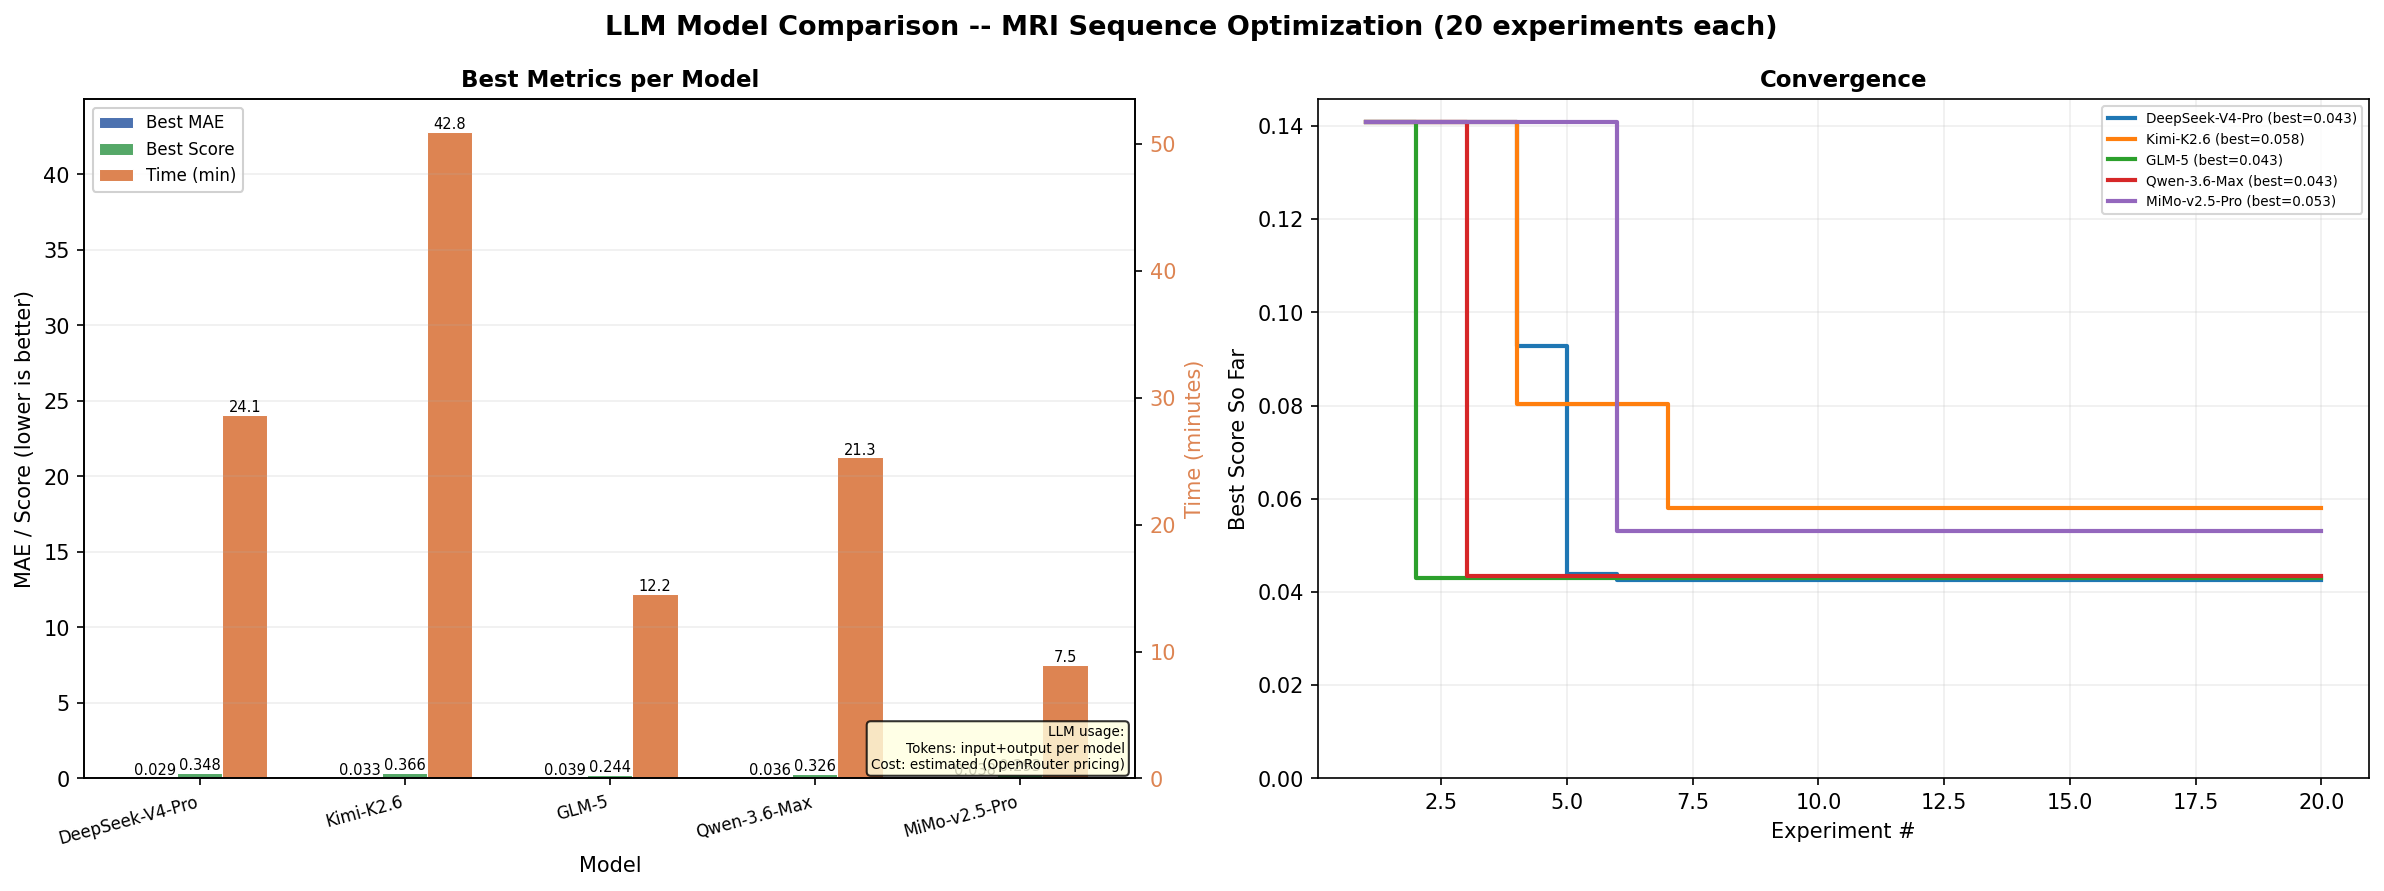
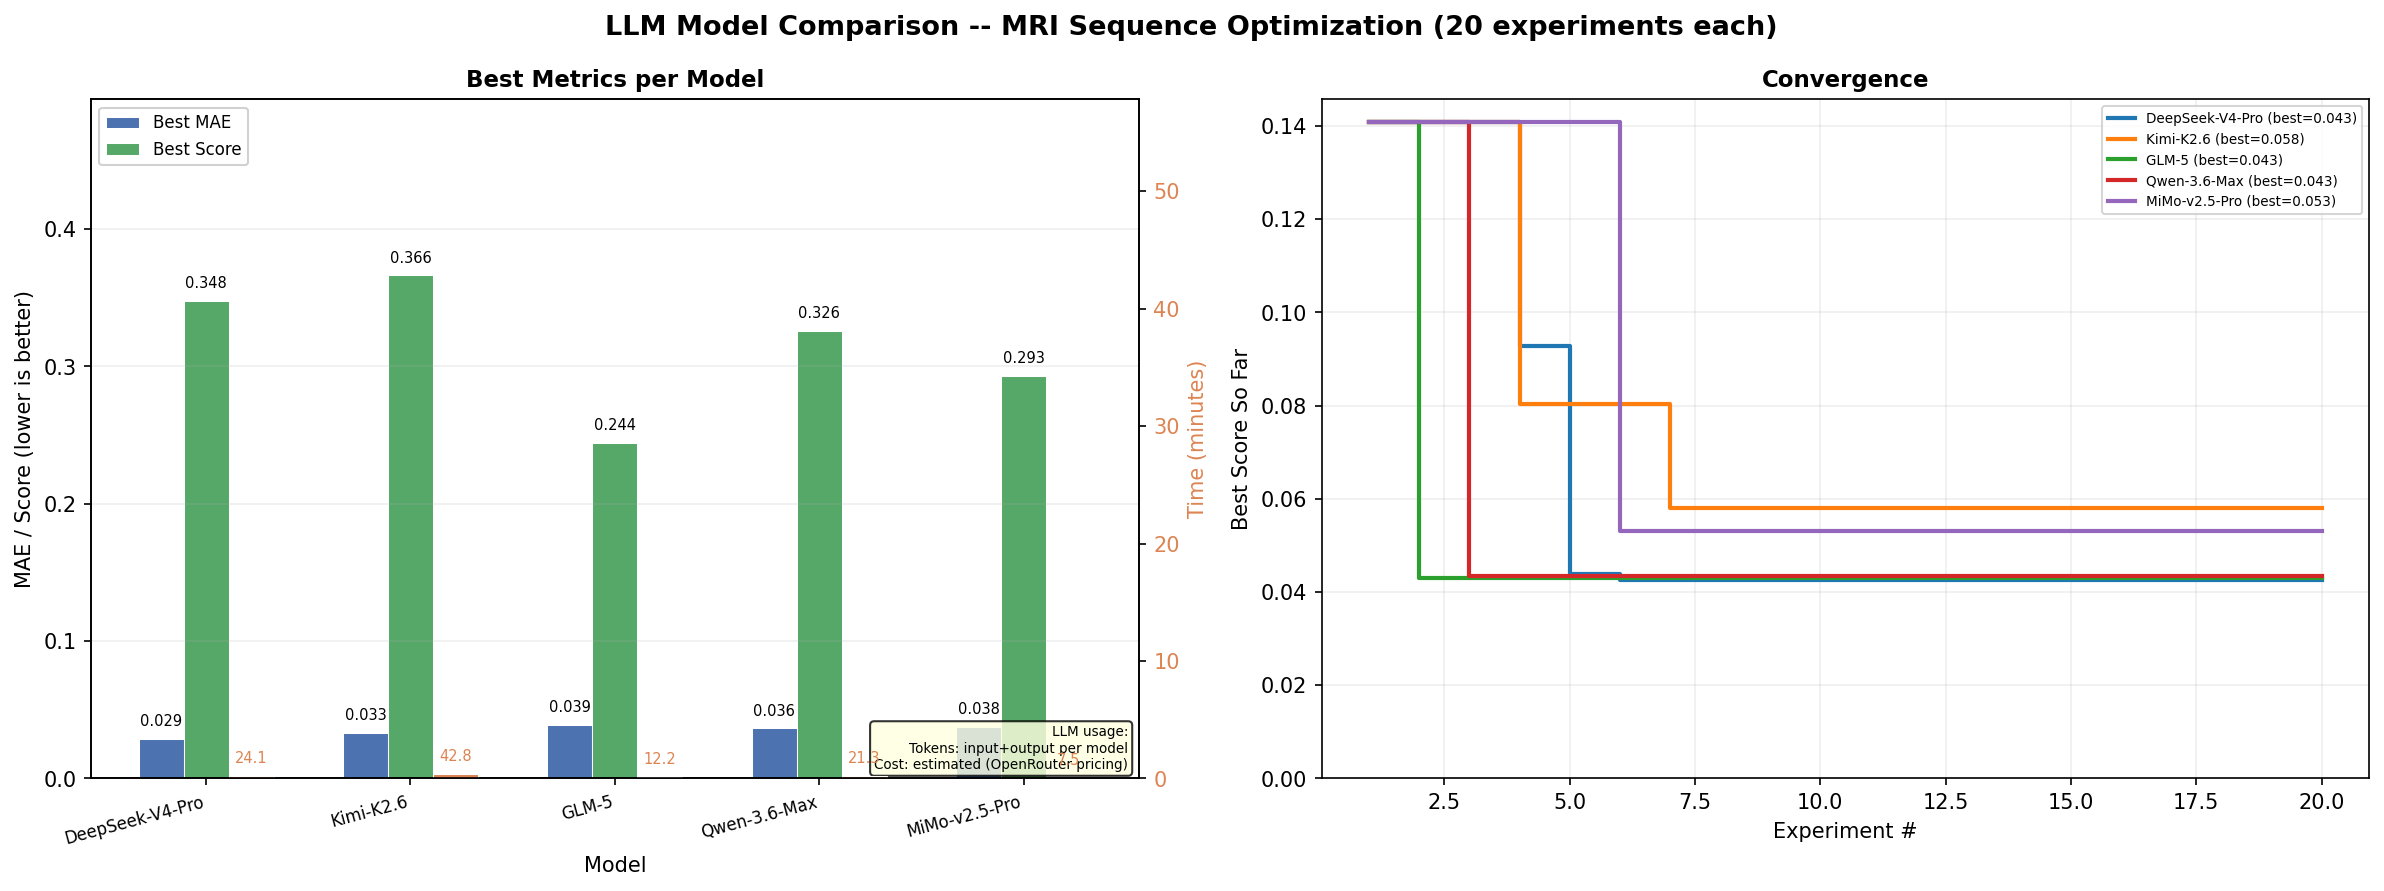
fix: bar chart time axis scaling in convergence plot

diff --git a/benchmark/plot_convergence.py b/benchmark/plot_convergence.py
@@ -51,23 +51,45 @@ for dir_name, label, _ in MODELS:
 x = np.arange(len(labels))
 width = 0.22
 
+# MAE & Score on primary y-axis (left)
 bars_mae = ax_bar.bar(x - width, mae_vals, width, color='#4C72B0', edgecolor='white', linewidth=0.5, label='Best MAE')
 bars_score = ax_bar.bar(x, score_vals, width, color='#55A868', edgecolor='white', linewidth=0.5, label='Best Score')
-bars_time = ax_bar.bar(x + width, time_vals, width, color='#DD8452', edgecolor='white', linewidth=0.5, label='Time (min)')
 
-# Dual Y-axis for time
+# Time on twin y-axis (right), scaled to be visually ~same height as MAE/Score
+max_mae = max(mae_vals) if mae_vals else 1
+max_score = max(score_vals) if score_vals else 1
+ref_max = max(max_mae, max_score)
+max_time = max(time_vals) if time_vals else 1
+scale = ref_max / max_time if max_time > 0 else 1
+time_scaled = [t * scale for t in time_vals]
+
 ax_time = ax_bar.twinx()
-ax_time.set_ylim(0, max(time_vals + [1]) * 1.25)
+bars_time = ax_time.bar(x + width, time_scaled, width, color='#DD8452', edgecolor='white', linewidth=0.5, label='Time (min)')
+
+# Align both y-axes to cover same visual range
+ax_bar.set_ylim(0, ref_max * 1.35)
+ax_time.set_ylim(0, max_time * 1.35)
 ax_time.set_ylabel('Time (minutes)', fontsize=10, color='#DD8452')
 ax_time.tick_params(axis='y', labelcolor='#DD8452')
 
 # Value labels
-for bars, fmt in [(bars_mae, '.3f'), (bars_score, '.3f'), (bars_time, '.1f')]:
-    for bar in bars:
-        h = bar.get_height()
-        if h > 0:
-            ax_bar.text(bar.get_x() + bar.get_width()/2., h + 0.005,
-                        f'{h:{fmt}}', ha='center', va='bottom', fontsize=7)
+for bar in bars_mae:
+    h = bar.get_height()
+    if h > 0:
+        ax_bar.text(bar.get_x() + bar.get_width()/2., h + ref_max * 0.02,
+                    f'{h:.3f}', ha='center', va='bottom', fontsize=7)
+
+for bar in bars_score:
+    h = bar.get_height()
+    if h > 0:
+        ax_bar.text(bar.get_x() + bar.get_width()/2., h + ref_max * 0.02,
+                    f'{h:.3f}', ha='center', va='bottom', fontsize=7)
+
+for bar, t_val in zip(bars_time, time_vals):
+    h = bar.get_height()
+    if t_val > 0:
+        ax_time.text(bar.get_x() + bar.get_width()/2., h + max_time * 0.02,
+                    f'{t_val:.1f}', ha='center', va='bottom', fontsize=7, color='#DD8452')
 
 ax_bar.set_xlabel('Model', fontsize=10)
 ax_bar.set_ylabel('MAE / Score (lower is better)', fontsize=10)